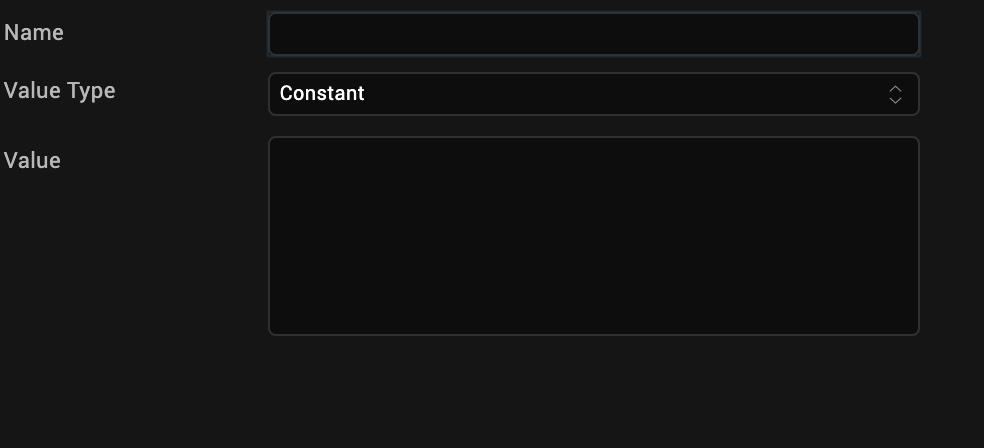
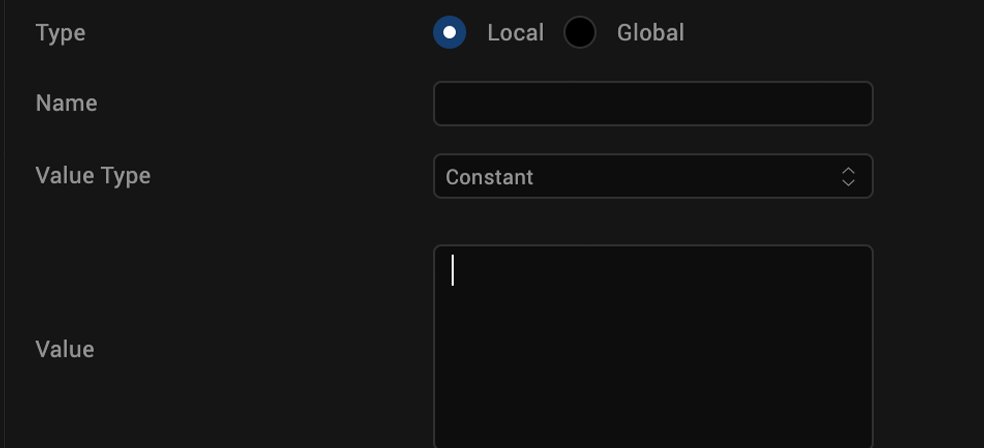
Merge pull request #1390 from phoenix-temenos/HPHX-31980-9.5
HPHX-31980-9.5

diff --git a/version/95/Iris/iris_user_guide/Content/ActionsNavigation.md b/version/95/Iris/iris_user_guide/Content/ActionsNavigation.md
@@ -10,7 +10,7 @@ The general actions that you can use in an action sequence are as follows:
 | Action | Property |
 | --- | --- |
 | [Loop Action](#loop-action) | Repeat a set of nested statements for the specified number of times. |
-| [Add Local Variable](#add-local-variable) | Adds a variable that is available within a function. Local variable can be of type Constant or Expression and take the following data type: String, Number, Boolean and or Collection. |
+| [Add Local](#add-local-variable) | Adds a variable that is available within a function. Local variable can be of type Constant or Expression and take the following data type: String, Number, Boolean and or Collection. |
 | [Modify Variable](#modify-variable) | Modify an existing variable. |
 | [Navigate to Form](#navigation) | Navigates from one form to another. |
 | [String Operation](#string-operation) | Perform operations (such as combine or split) on strings. |
@@ -57,6 +57,8 @@ To define an action sequence to add a local variable, do the following:
      ![](Resources/Images/Add_local_variable.PNG)
 
 7.  Click **Save** to save the action sequence, and then close the Action Editor window.
+
+> **_Note:_** For variable type `Global` also the same steps from #4 to #6 above are applicable
 
 ### Modify Variable
 
